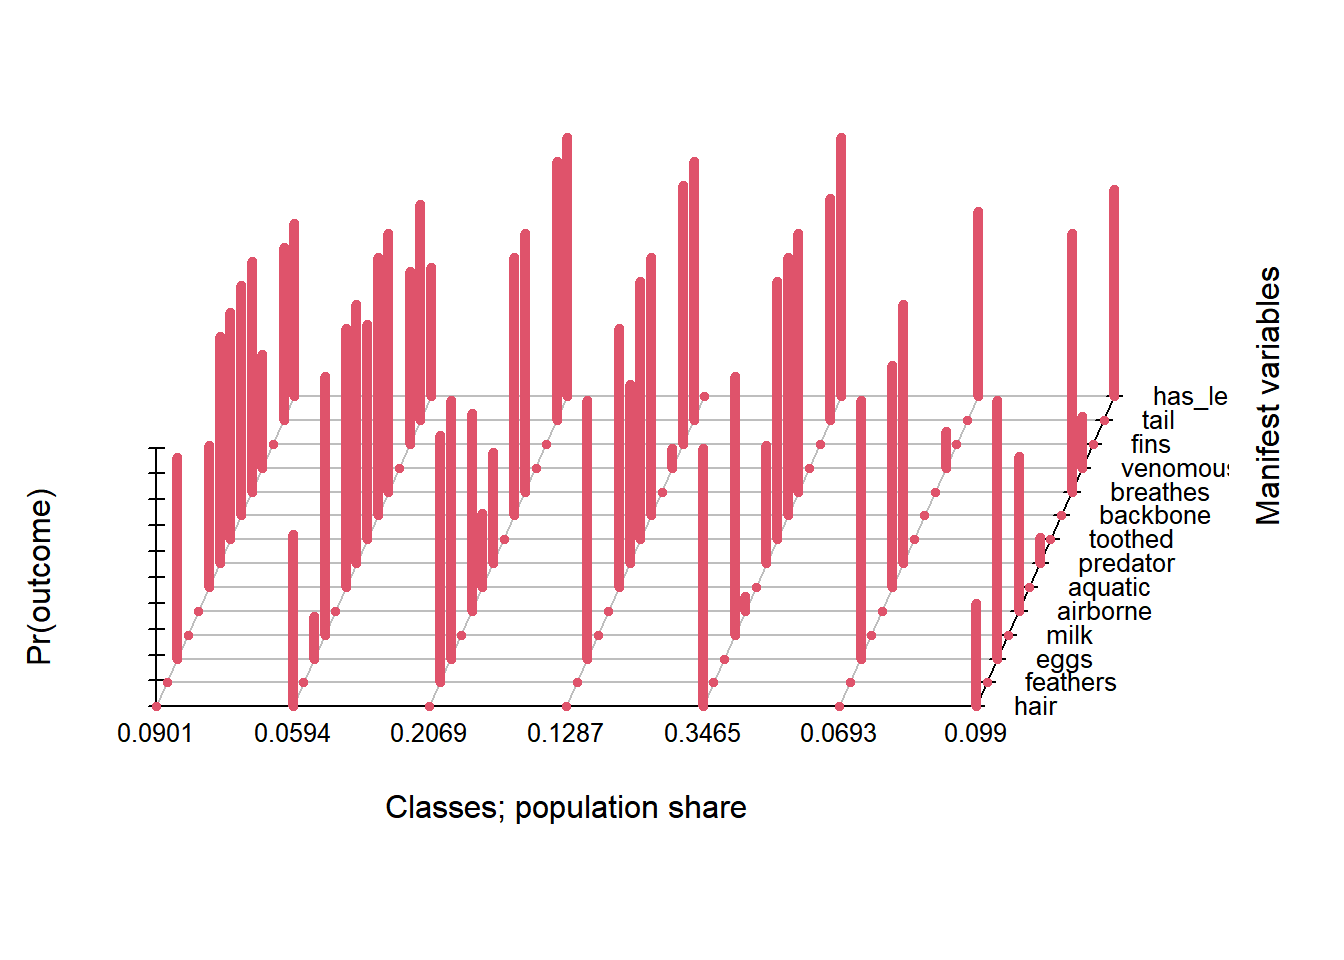
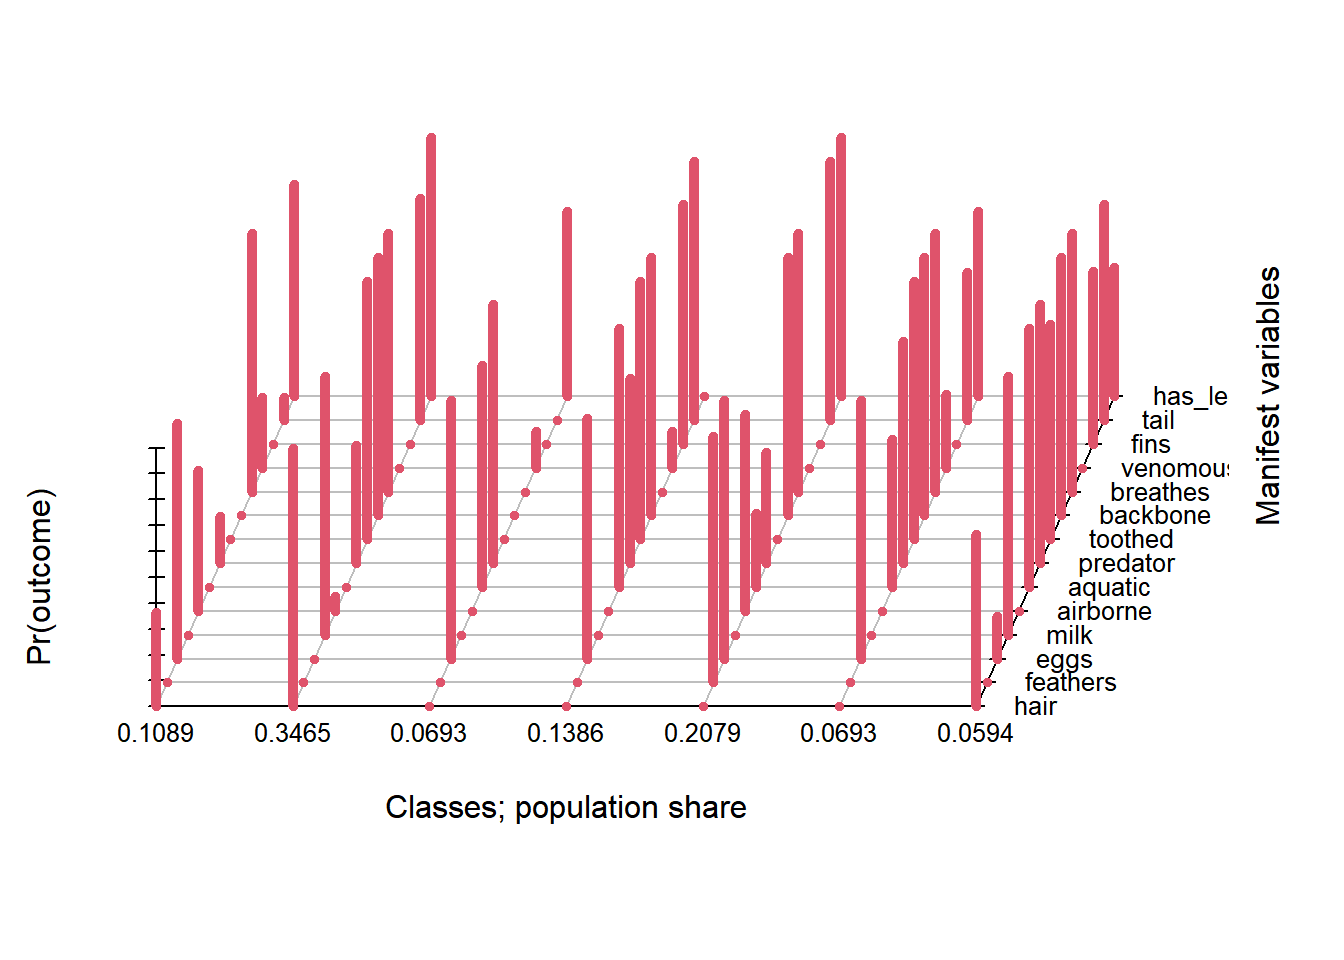
commit

diff --git a/index.html b/index.html
@@ -766,7 +766,7 @@ Entropy
 6-Class Model
 </td>
 <td style="text-align:right;">
-3.905345
+3.902091
 </td>
 </tr>
 </tbody>
